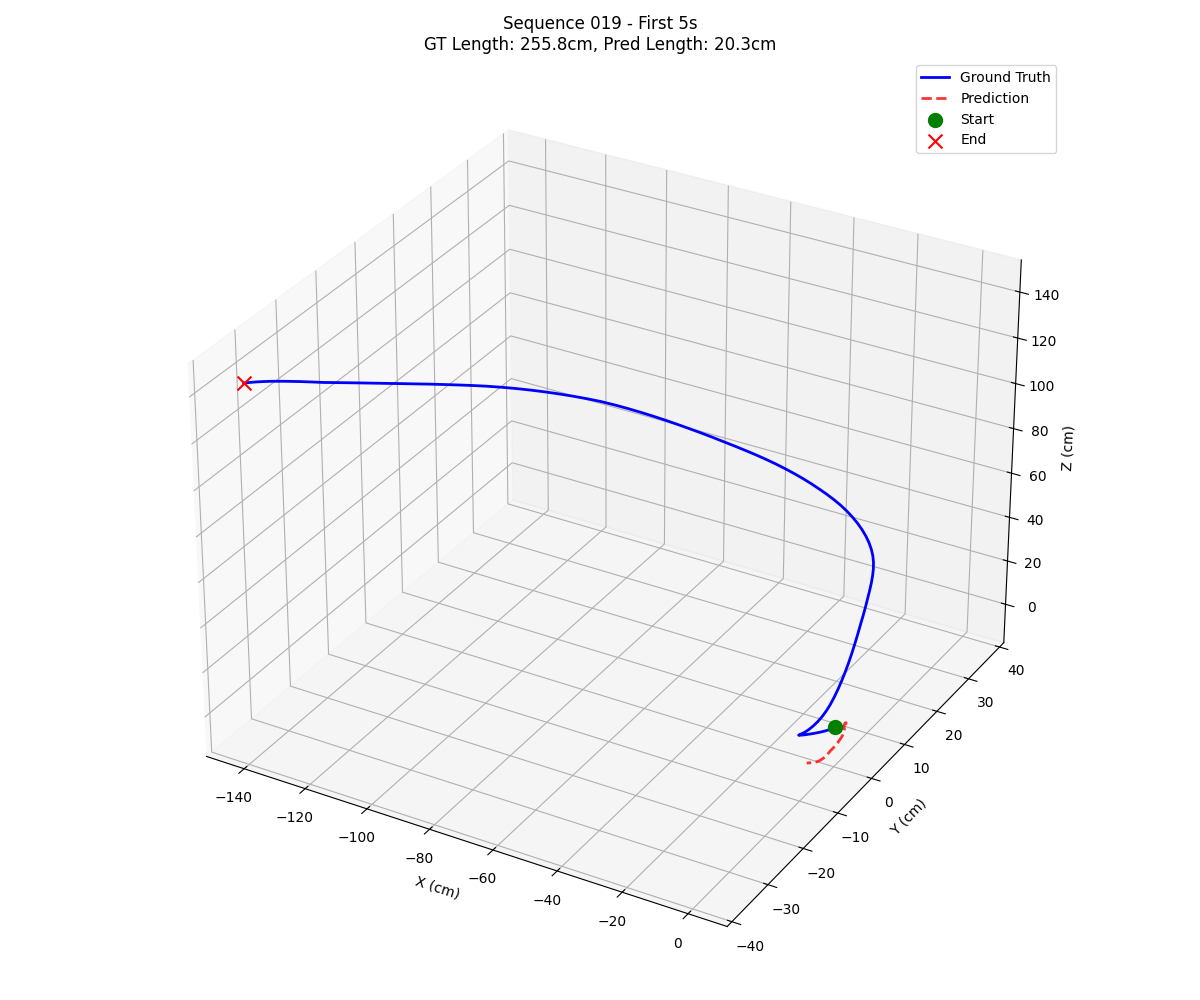
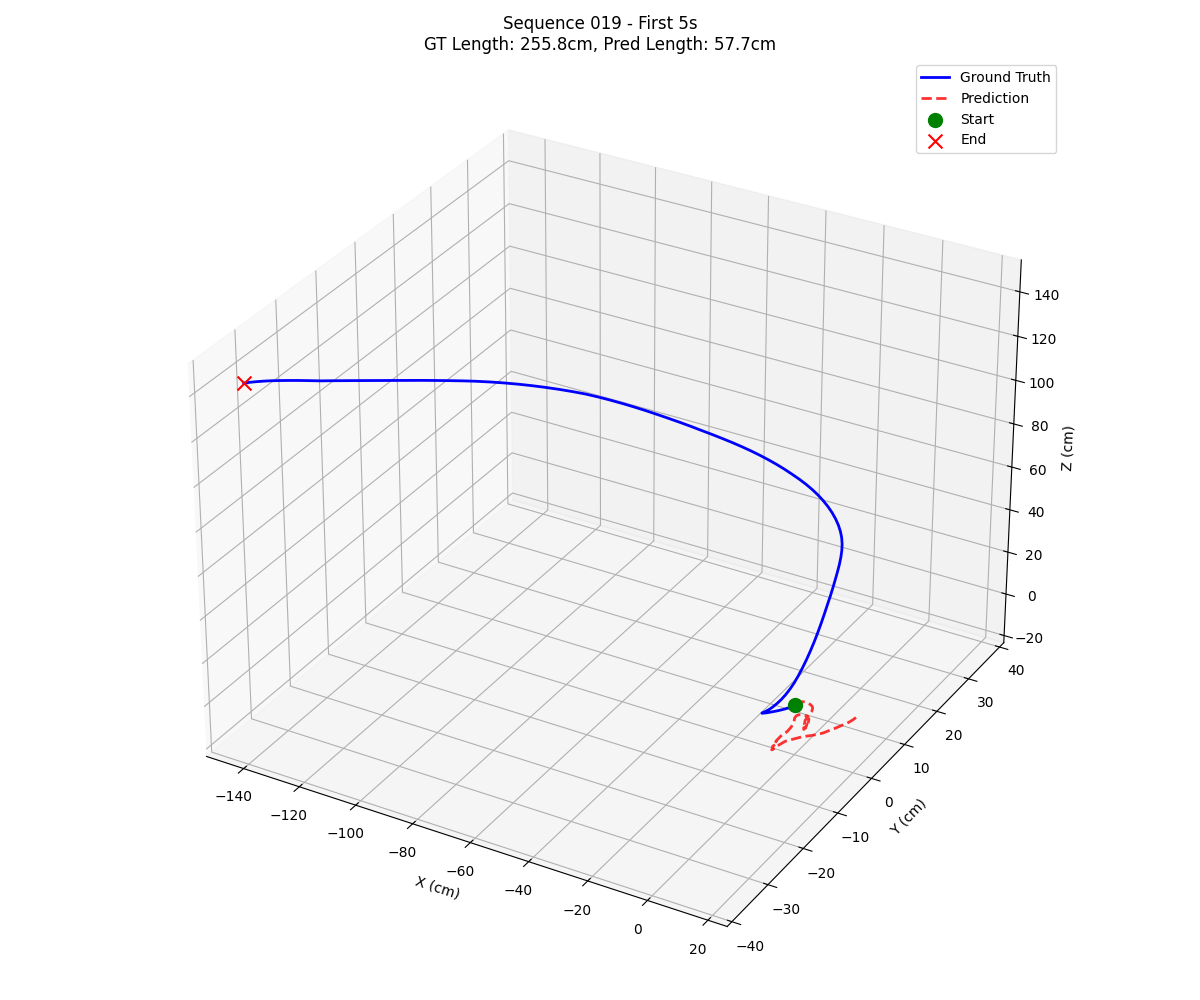
1. Weight initialization fixed:     - Changed from gain=0.01 to default gain≈1     - This prevents the model from getting stuck near zero outputs     - Allows proper gradient flow and learning   2. Temporal ordering fixed:     - Added frame_idx to dataset output     - Modified evaluation to store (f

diff --git a/evaluate_stable_model.py b/evaluate_stable_model.py
@@ -193,9 +193,10 @@ def evaluate_model(model, test_loader, device, output_dir, test_sequences, test_
                 }
                 all_results.append(result)
                 
-                # Use sequence ID directly from the batch
+                # Use sequence ID and frame index for proper ordering
                 seq_id = batch['sequence_id'][i]
-                sequence_results[seq_id].append(result)
+                frame_idx = batch['frame_idx'][i].item() if torch.is_tensor(batch['frame_idx'][i]) else batch['frame_idx'][i]
+                sequence_results[seq_id].append((frame_idx, result))
     
     # Compute overall statistics
     all_trans_errors = np.concatenate([r['trans_errors'] for r in all_results])
@@ -230,8 +231,14 @@ def evaluate_model(model, test_loader, device, output_dir, test_sequences, test_
         if seq_id not in sequence_results or not sequence_results[seq_id]:
             continue
             
-        # Concatenate all results for this sequence
-        seq_results = sequence_results[seq_id]
+        # Sort results by frame index to ensure chronological order
+        seq_results_with_idx = sequence_results[seq_id]
+        seq_results_with_idx.sort(key=lambda x: x[0])  # Sort by frame index
+        
+        # Extract just the results after sorting
+        seq_results = [r for _, r in seq_results_with_idx]
+        
+        # Concatenate all results for this sequence in proper temporal order
         all_pred = np.concatenate([r['pred_poses'] for r in seq_results], axis=0)
         all_gt = np.concatenate([r['gt_poses'] for r in seq_results], axis=0)
         

diff --git a/train_vift_aria_stable.py b/train_vift_aria_stable.py
@@ -79,14 +79,13 @@ class VIFTStable(nn.Module):
             nn.Linear(embedding_dim, 7)
         )
         
-        # Very careful initialization
+        # Proper initialization
         with torch.no_grad():
-            # Small weights for final layer
-            nn.init.xavier_uniform_(self.fc2[-1].weight, gain=0.01)
-            # Remove hard zero-bias on final layer
+            # Use default gain for final layer to avoid frozen outputs
+            nn.init.xavier_uniform_(self.fc2[-1].weight)  # default gain ≈ 1
             
-            # Small initialization for first layer too
-            nn.init.xavier_uniform_(self.fc1[0].weight, gain=0.1)
+            # Normal initialization for first layer
+            nn.init.xavier_uniform_(self.fc1[0].weight)
     
     def positional_embedding(self, seq_length, device):
         import math

diff --git a/src/data/components/aria_latent_dataset.py b/src/data/components/aria_latent_dataset.py
@@ -85,7 +85,8 @@ class AriaLatentDataset(Dataset):
             'imu_features': imu_features,
             'poses': relative_poses,  # Changed key to match training dataset
             'sequence_id': sequence_id,  # Add sequence ID for proper grouping
-            'file_prefix': file_prefix  # Keep for debugging
+            'file_prefix': file_prefix,  # Keep for debugging
+            'frame_idx': int(file_prefix)  # Add frame index for temporal ordering
         }
         
         return batch
